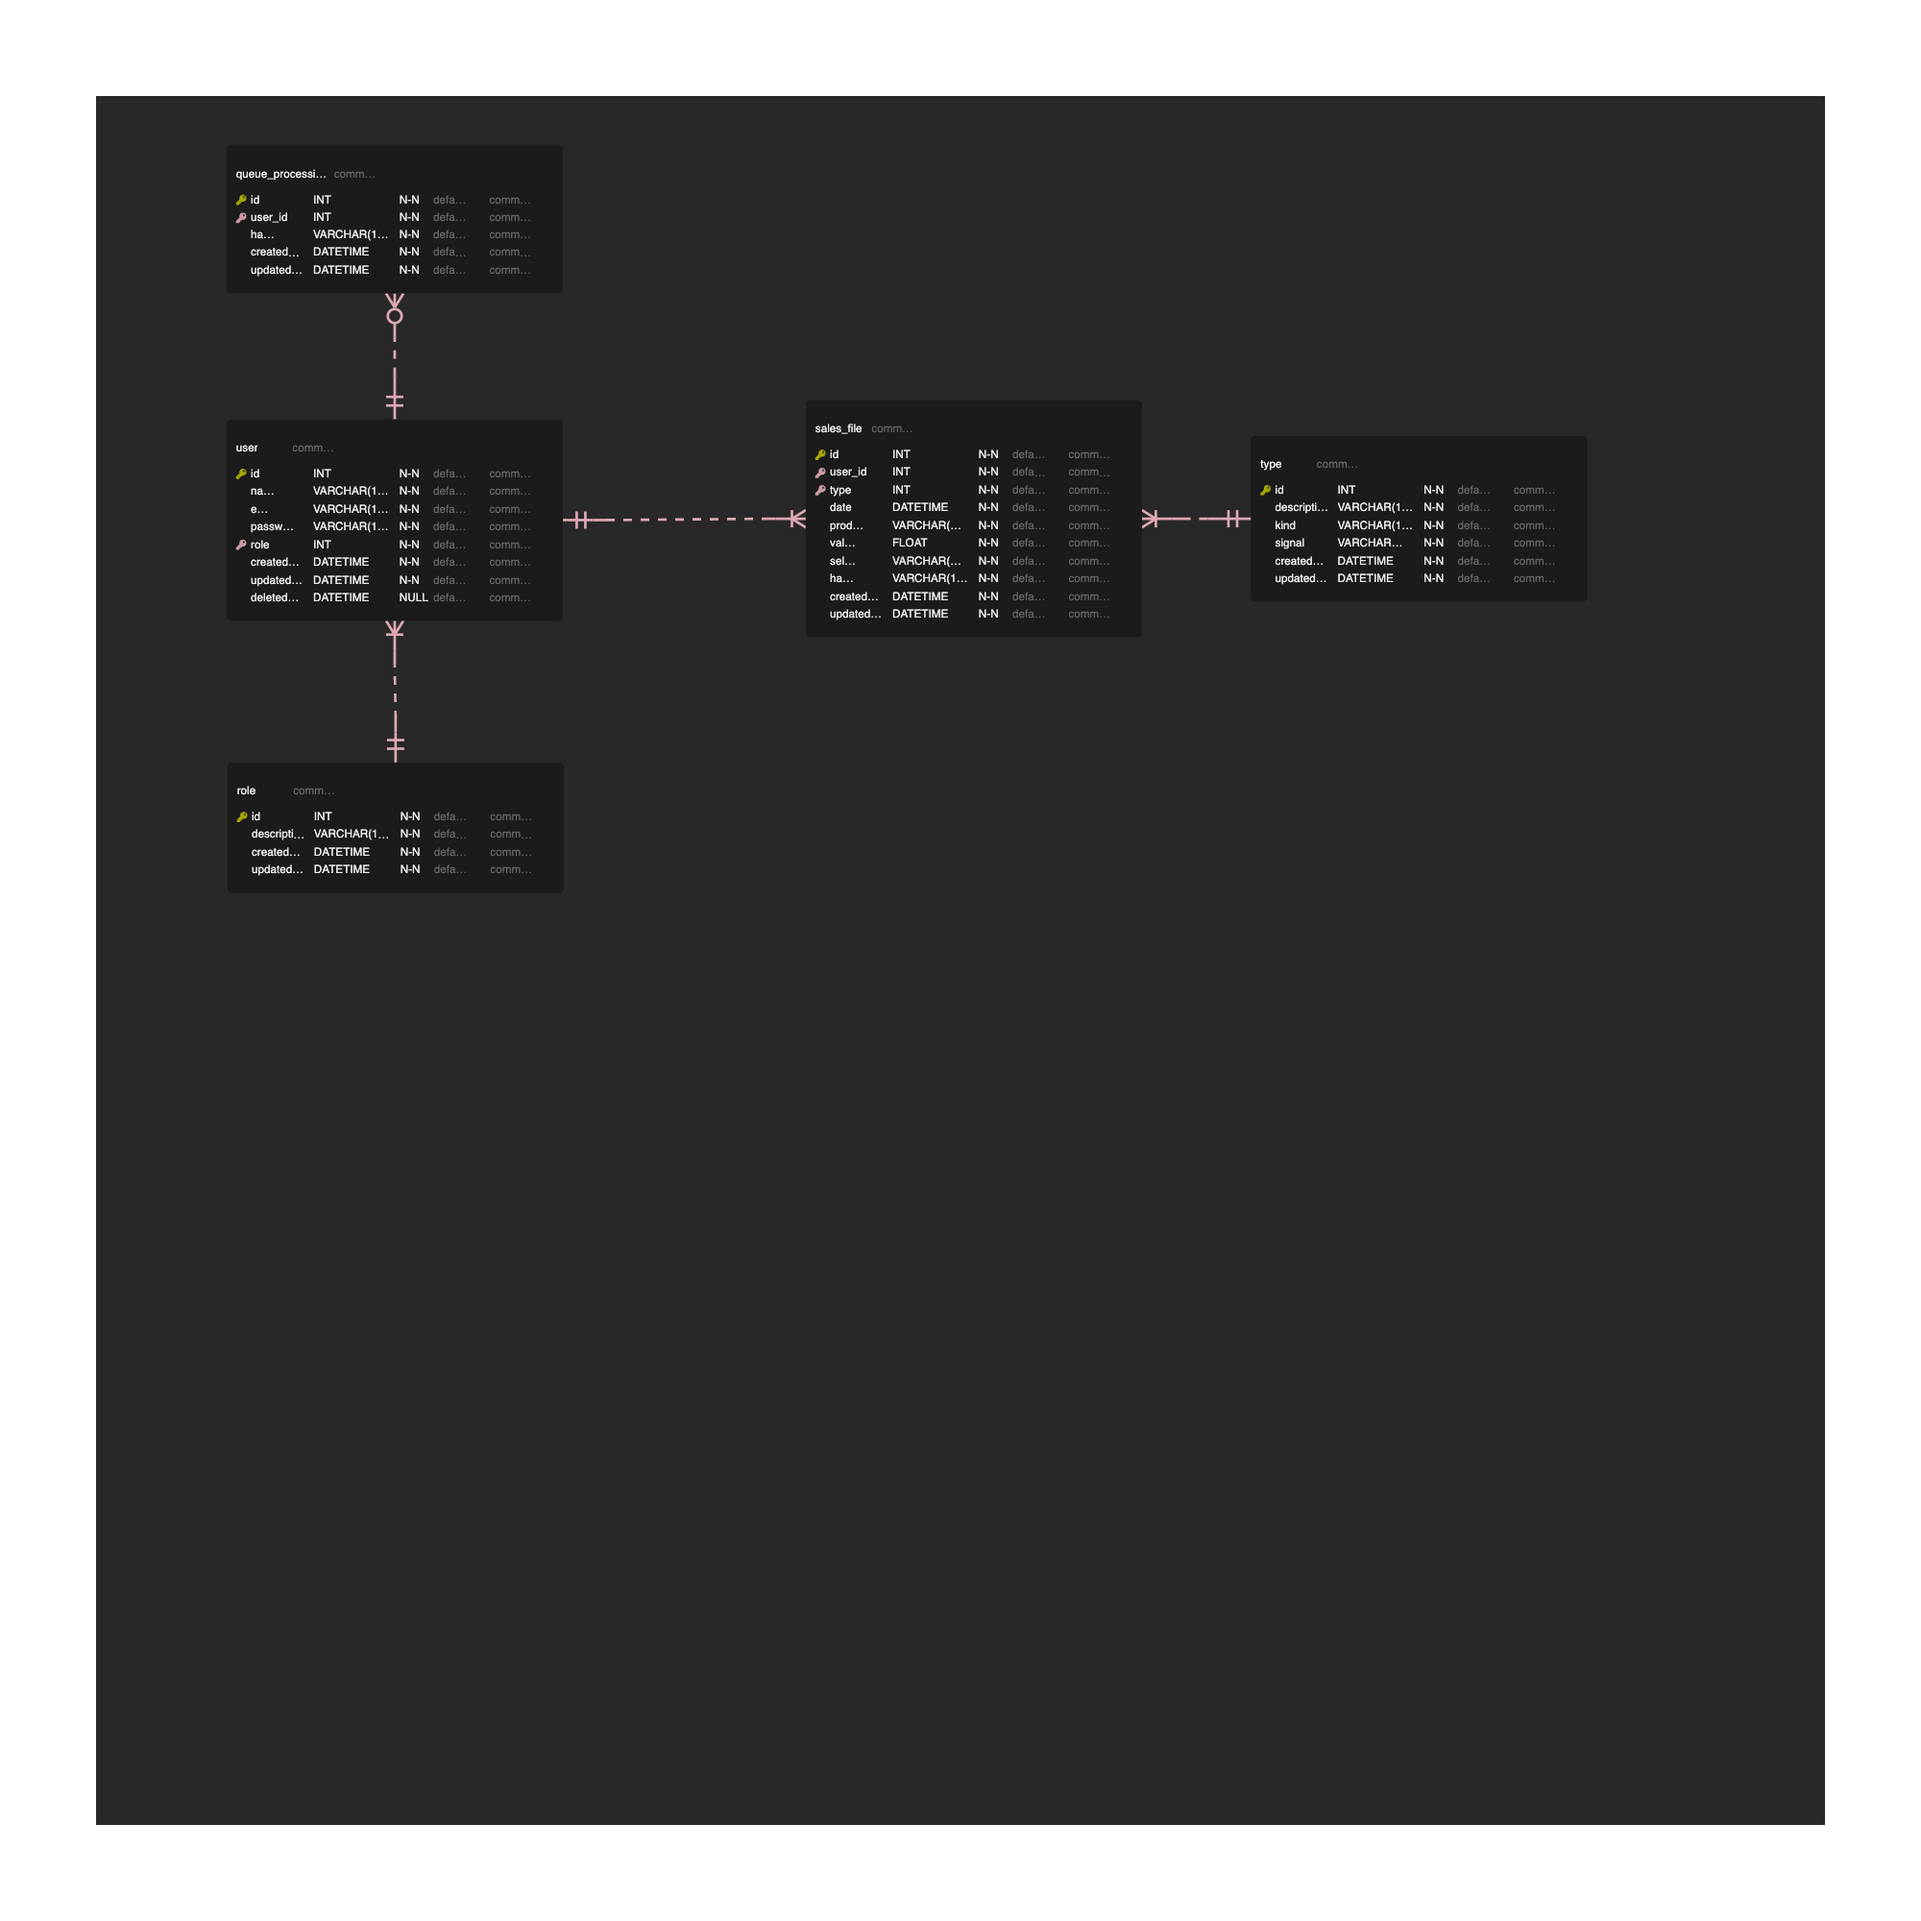
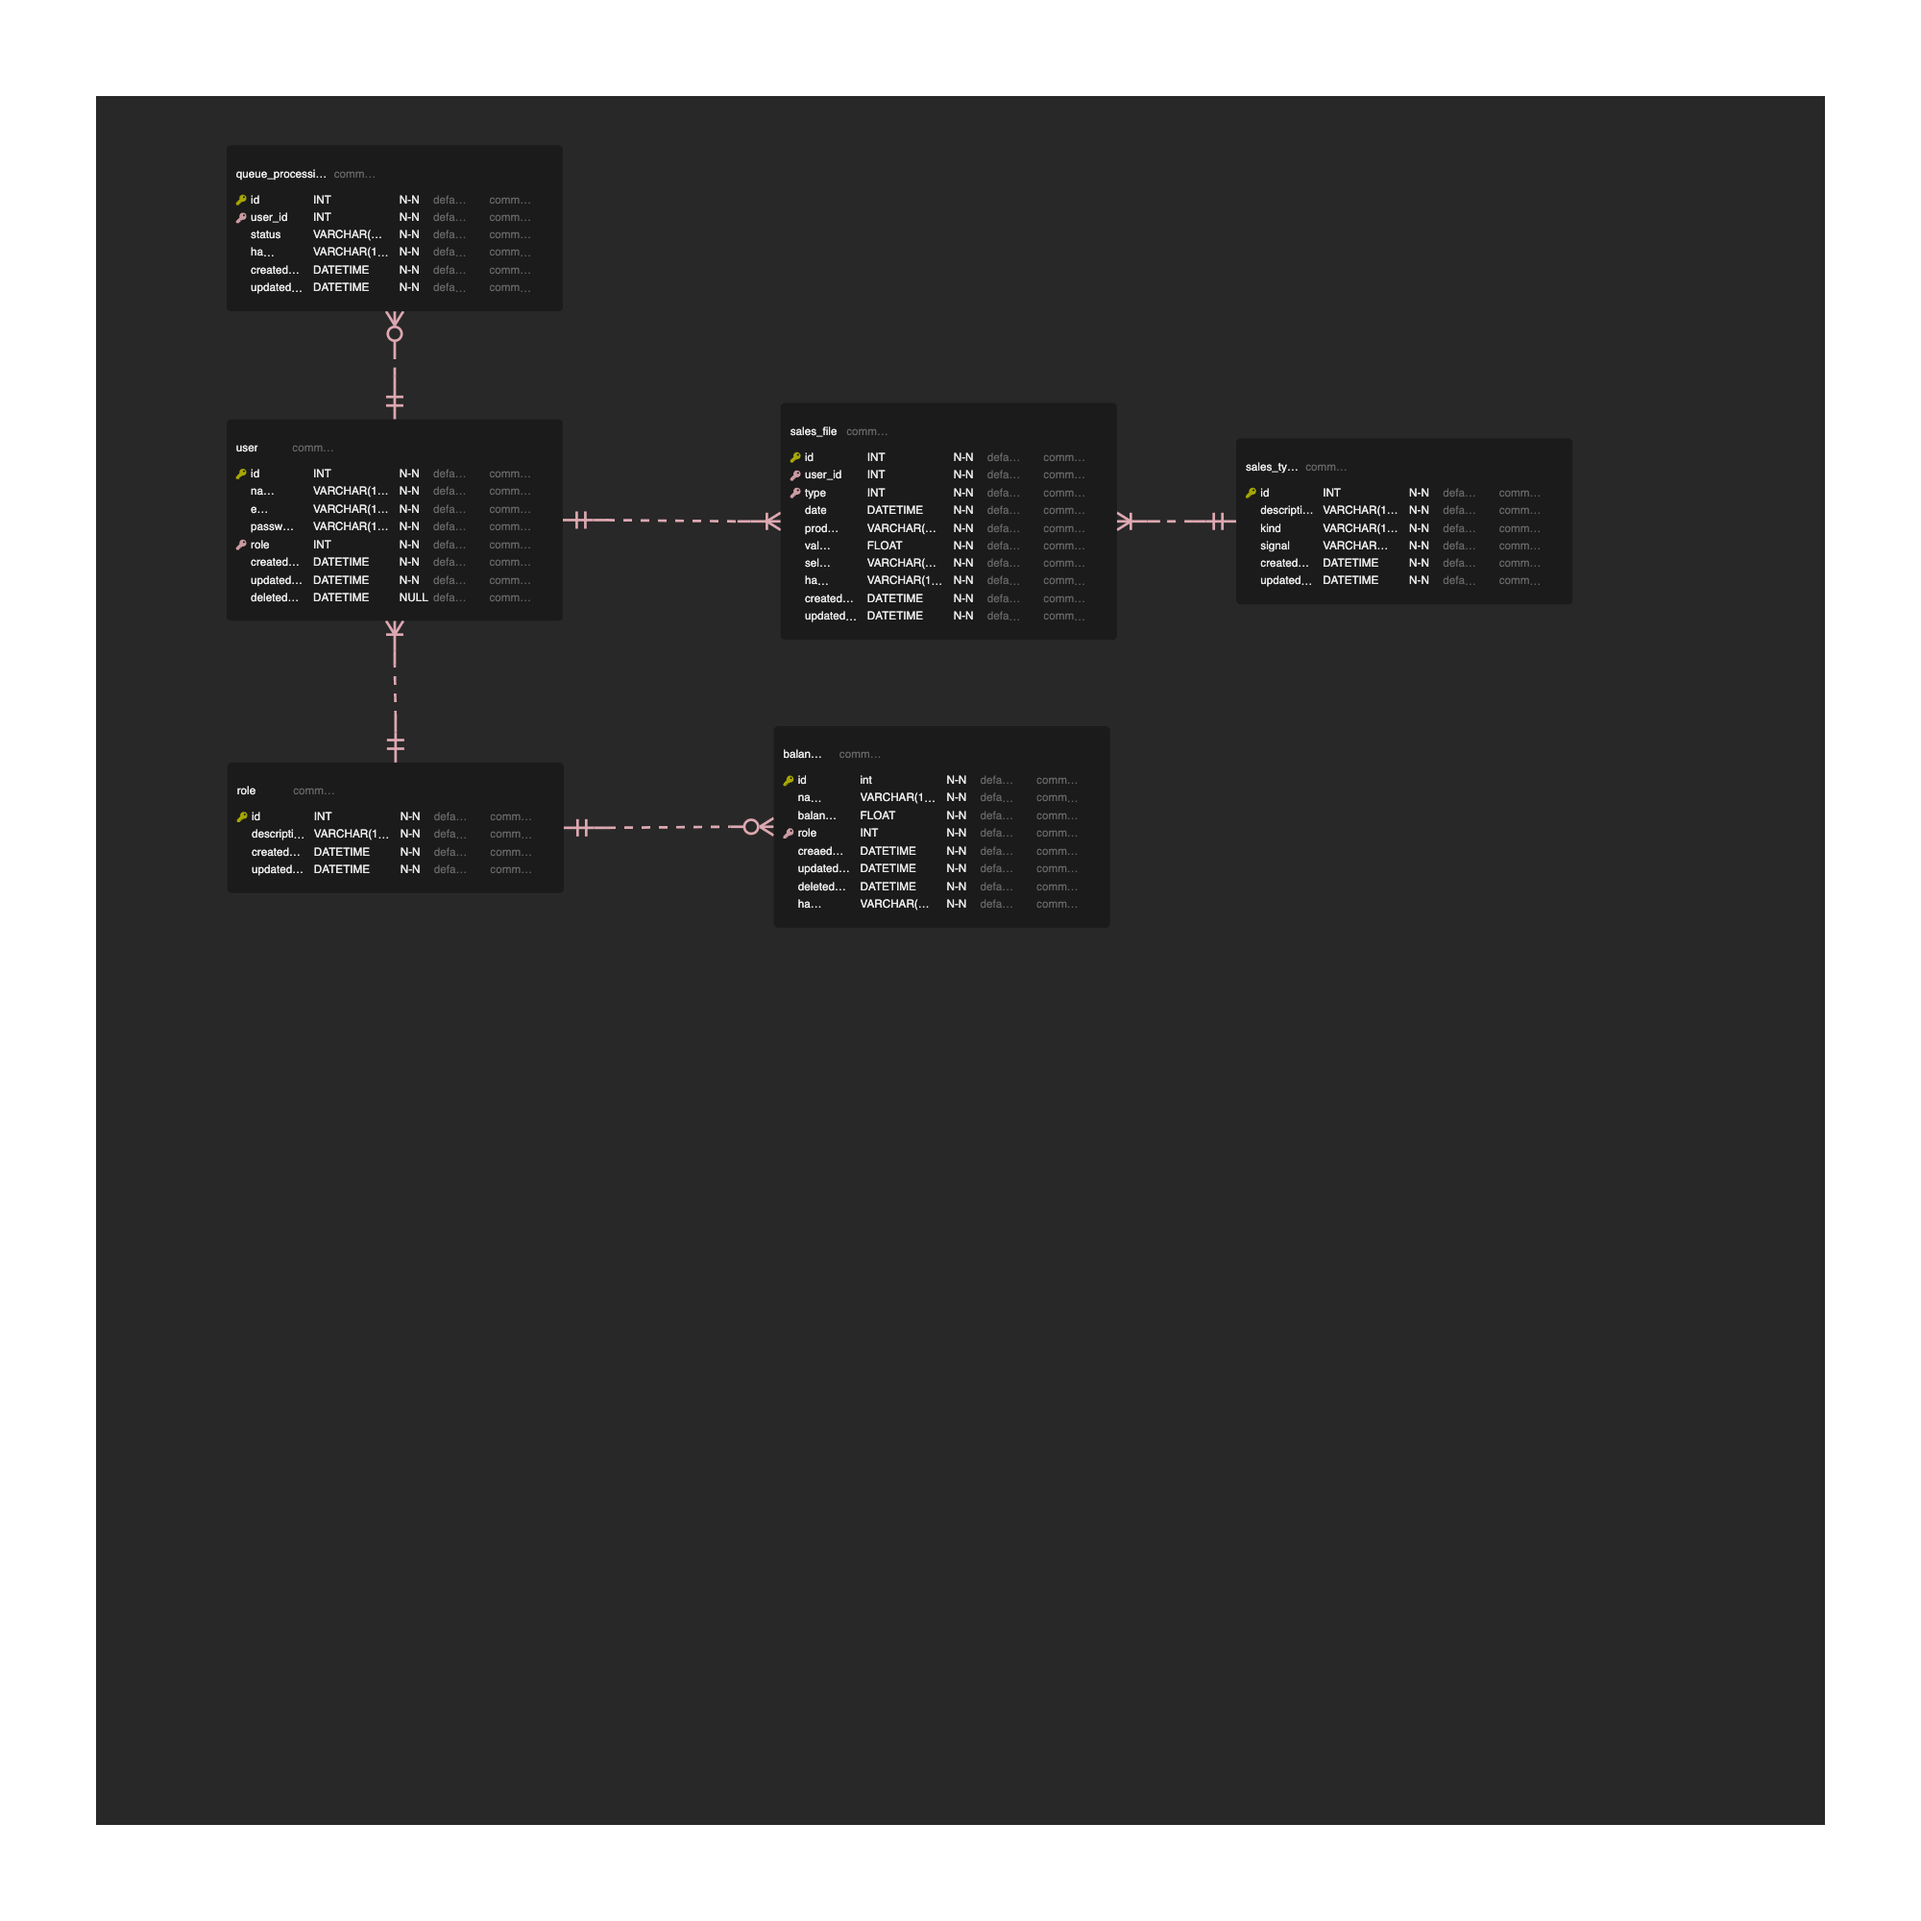
check file status processing

diff --git a/controllers/fileController.go b/controllers/fileController.go
@@ -5,10 +5,13 @@ import (
 	"fmt"
 	"io/ioutil"
 	"path/filepath"
+	"strconv"
 	"strings"
 
 	"github.com/gofiber/fiber/v2"
 	"github.com/luisaugustomelo/hubla-challenge/interfaces"
+	"github.com/luisaugustomelo/hubla-challenge/middlewares"
+	"github.com/luisaugustomelo/hubla-challenge/services"
 	"github.com/luisaugustomelo/hubla-challenge/workers"
 	"gorm.io/gorm"
 )
@@ -17,6 +20,24 @@ type FileController struct{}
 
 func fiberError(c *fiber.Ctx, status int, message string, err error) error {
 	return c.Status(status).SendString(fmt.Sprintf("%s : %s", message, err.Error()))
+}
+
+func CheckFileStatus(c *fiber.Ctx) error {
+	db := c.Locals("db").(*gorm.DB)
+	id := c.Params("id")
+
+	value, err := strconv.Atoi(id)
+
+	if err != nil {
+		return fiberError(c, fiber.StatusBadRequest, "ID error", fmt.Errorf("id doesn't exist"))
+	}
+
+	balances, err := services.CheckFileStatus(db, value)
+	if err != nil {
+		return fiberError(c, fiber.StatusBadRequest, "ID process error", fmt.Errorf("error to process request"))
+	}
+
+	return c.Status(200).JSON(balances)
 }
 
 func UploadSingleFile(c *fiber.Ctx) error {
@@ -43,17 +64,23 @@ func UploadSingleFile(c *fiber.Ctx) error {
 
 	// email will be decrypted based jwt
 	db := c.Locals("db").(*gorm.DB)
-	workers.PublishToQueue(interfaces.Message{
-		UserId: 1,
-		Email:  "luis@hubla.com",
+	user := c.Locals("user").(interfaces.Credentials)
+	mq, err := workers.PublishToQueue(interfaces.Message{
+		UserId: user.Id,
+		Email:  user.Email,
 		File:   base64.StdEncoding.EncodeToString(bytes),
 	}, db)
 
-	return c.Status(fiber.StatusOK).JSON(fiber.Map{"filepath": "/images/single/ submited as success!"})
+	if err != nil {
+		return c.Status(fiber.StatusInternalServerError).JSON(err)
+	}
+
+	return c.Status(fiber.StatusOK).JSON(mq)
 }
 
 func (*FileController) Route(app *fiber.App) {
-	app.Post("/upload", UploadSingleFile)
+	app.Post("/upload", middlewares.RenewJWT, UploadSingleFile)
+	app.Get("/checkStatus/:id", CheckFileStatus)
 }
 
 func NewFileController() interfaces.Router {

diff --git a/workers/consumer.go b/workers/consumer.go
@@ -6,6 +6,7 @@ import (
 	"fmt"
 	"log"
 	"strings"
+	"sync"
 
 	"github.com/luisaugustomelo/hubla-challenge/database/models"
 	"github.com/luisaugustomelo/hubla-challenge/interfaces"
@@ -16,21 +17,18 @@ import (
 )
 
 func ConsumerToQueue(db *gorm.DB) {
-
 	amqpHost := utils.GetEnv("AMQPHOST", "amqp://guest:guest@localhost:5672/")
 	conn, err := amqp.Dial(amqpHost)
 	if err != nil {
 		fmt.Println(err)
 		return
 	}
-	//defer conn.Close()
 
 	ch, err := conn.Channel()
 	if err != nil {
 		fmt.Println(err)
 		return
 	}
-	//defer ch.Close()
 
 	channelName := utils.GetEnv("CNAME", "hubla-sales-queue")
 	q, err := ch.QueueDeclare(
@@ -60,10 +58,20 @@ func ConsumerToQueue(db *gorm.DB) {
 		return
 	}
 
-	go func() {
+	var lock sync.Mutex
+	go func(msgs <-chan amqp.Delivery) {
 		for d := range msgs {
+			lock.Lock()
+			queue, err := ch.QueueInspect(q.Name)
+			if err != nil {
+				// handle error
+				fmt.Println(err)
+			} else {
+				fmt.Printf("Number of pending messages in the queue: %d\n", queue.Messages)
+			}
+
 			m := &interfaces.Message{}
-			err := json.Unmarshal(d.Body, m)
+			err = json.Unmarshal(d.Body, m)
 			if err != nil {
 				fmt.Printf("Error decoding JSON: %s\n", err)
 				continue
@@ -72,7 +80,7 @@ func ConsumerToQueue(db *gorm.DB) {
 			mq := models.QueueProcessing{}
 
 			// Find currently user
-			if err := db.Where("user_id = ?", m.UserId).First(&mq).Error; err != nil {
+			if err := db.Where("user_id = ? AND status = ?", m.UserId, "pending").Last(&mq).Error; err != nil {
 				continue
 			}
 
@@ -120,7 +128,7 @@ func ConsumerToQueue(db *gorm.DB) {
 				continue
 			}
 
-			mq.Status = "successs"
+			mq.Status = "success"
 			mq.Hash = filename
 			mq.Message = "done"
 
@@ -129,6 +137,7 @@ func ConsumerToQueue(db *gorm.DB) {
 			}
 
 			fmt.Printf("Received a message: %s %s %v\n", m.Email, m.File, sales)
+			lock.Unlock()
 		}
-	}()
+	}(msgs)
 }

diff --git a/services/fileService.go b/services/fileService.go
@@ -5,6 +5,8 @@ import (
 	"bytes"
 	"crypto/md5"
 	"encoding/hex"
+	"errors"
+	"fmt"
 	"io"
 	"io/ioutil"
 	"os"
@@ -12,6 +14,8 @@ import (
 	"strings"
 
 	"github.com/luisaugustomelo/hubla-challenge/database/models"
+	"github.com/luisaugustomelo/hubla-challenge/interfaces"
+	"gorm.io/gorm"
 )
 
 var productToProducer map[string]string
@@ -127,20 +131,47 @@ func ReadSales(filename string) ([]models.SalesFile, []models.Balance, error) {
 			}
 		}
 
+		userBalance := models.Balance{
+			Balance: balance,
+			Role:    1,
+			Name:    index,
+			Hash:    strings.TrimSuffix(filename, ".txt"),
+		}
+
 		if isProducer {
-			finalBalances = append(finalBalances, models.Balance{
-				Balance: balance,
-				Role:    1,
-				Name:    index,
-			})
+			finalBalances = append(finalBalances, userBalance)
 			continue
 		}
 
-		finalBalances = append(finalBalances, models.Balance{
-			Balance: balance,
-			Role:    2,
-			Name:    index,
-		})
+		userBalance.Role = 2
+		finalBalances = append(finalBalances, userBalance)
 	}
 	return sales, finalBalances, scanner.Err()
+}
+
+func CheckFileStatus(db interfaces.Datastore, id int) ([]models.Balance, error) {
+	mq := &models.QueueProcessing{}
+	if err := db.Where("id = ?", id).First(mq).Error; err != nil {
+		if errors.Is(err, gorm.ErrRecordNotFound) {
+			return nil, fmt.Errorf("process not found")
+		}
+		return nil, fmt.Errorf("failed to get process status")
+	}
+
+	if mq.Status == "success" {
+		var balances []models.Balance
+		if err := db.Where("hash = ?", strings.TrimSuffix(mq.Hash, ".txt")).Find(&balances).Error; err != nil {
+			if errors.Is(err, gorm.ErrRecordNotFound) {
+				return nil, fmt.Errorf("balances not found")
+			}
+			return nil, fmt.Errorf("failed to get balances")
+		}
+		return balances, nil
+	}
+
+	if mq.Status == "error" {
+		return nil, fmt.Errorf("error to proccess file")
+	}
+
+	return nil, nil
 }

diff --git a/workers/producer.go b/workers/producer.go
@@ -12,21 +12,21 @@ import (
 	"gorm.io/gorm"
 )
 
-func PublishToQueue(message interfaces.Message, db *gorm.DB) error {
+func PublishToQueue(message interfaces.Message, db *gorm.DB) (*models.QueueProcessing, error) {
 	amqpHost := utils.GetEnv("AMQPHOST", "amqp://guest:guest@localhost:5672/")
 	conn, err := amqp.Dial(amqpHost)
 	if err != nil {
 		fmt.Println(err)
-		return err
+		return nil, err
 	}
-	defer conn.Close()
+	//defer conn.Close()
 
 	ch, err := conn.Channel()
 	if err != nil {
 		fmt.Println(err)
-		return err
+		return nil, err
 	}
-	defer ch.Close()
+	//defer ch.Close()
 
 	channelName := utils.GetEnv("CNAME", "hubla-sales-queue")
 	q, err := ch.QueueDeclare(
@@ -39,13 +39,13 @@ func PublishToQueue(message interfaces.Message, db *gorm.DB) error {
 	)
 	if err != nil {
 		fmt.Println(err)
-		return err
+		return nil, err
 	}
 
 	body, err := json.Marshal(message)
 	if err != nil {
 		fmt.Println(err)
-		return err
+		return nil, err
 	}
 
 	err = ch.Publish(
@@ -60,7 +60,7 @@ func PublishToQueue(message interfaces.Message, db *gorm.DB) error {
 	)
 	if err != nil {
 		fmt.Println(err)
-		return err
+		return nil, err
 	}
 
 	mq := &models.QueueProcessing{}
@@ -71,8 +71,8 @@ func PublishToQueue(message interfaces.Message, db *gorm.DB) error {
 
 	if err := db.Save(&mq).Error; err != nil {
 		log.Print(err)
-		return err
+		return nil, err
 	}
 
-	return nil
+	return mq, nil
 }

diff --git a/middlewares/authMiddleware.go b/middlewares/authMiddleware.go
@@ -6,6 +6,7 @@ import (
 
 	"github.com/gofiber/fiber/v2"
 	"github.com/golang-jwt/jwt"
+	"github.com/luisaugustomelo/hubla-challenge/interfaces"
 	"github.com/luisaugustomelo/hubla-challenge/services"
 )
 
@@ -39,15 +40,19 @@ func RenewJWT(c *fiber.Ctx) error {
 	}
 
 	email := claims["sub"].(string)
-	id := claims["id"].(uint)
+	id := claims["id"].(float64)
 
-	newToken, err := services.GenerateJWT(email, id)
+	newToken, err := services.GenerateJWT(email, uint(id))
 	if err != nil {
 		return c.SendStatus(fiber.StatusInternalServerError)
 	}
 
 	// Set the new token in the response header
 	c.Set("X-New-Token", newToken)
+	c.Locals("user", interfaces.Credentials{
+		Email: email,
+		Id:    uint(id),
+	})
 
 	return c.Next()
 }

diff --git a/main.go b/main.go
@@ -2,8 +2,10 @@ package main
 
 import (
 	"os"
+	"time"
 
 	"github.com/gofiber/fiber/v2"
+	"github.com/gofiber/fiber/v2/middleware/cors"
 	_ "github.com/joho/godotenv/autoload"
 	"github.com/luisaugustomelo/hubla-challenge/controllers"
 	"github.com/luisaugustomelo/hubla-challenge/database"
@@ -12,11 +14,13 @@ import (
 
 func main() {
 	app := fiber.New()
+	app.Use(cors.New())
+
 	db, err := database.Setup(app)
 	if err != nil {
 		panic(err)
 	}
-
+	time.Sleep(500)
 	workers.ConsumerToQueue(db)
 
 	controllers.SetupRoutes(app)

diff --git a/database/models/user.go b/database/models/user.go
@@ -8,8 +8,8 @@ type User struct {
 	gorm.Model
 	Name            string
 	Email           string `gorm:"type:varchar(100);unique;not null"`
-	Password        string `json:"-"`
-	Role            uint   `gorm:"foreignKey:role"`
+	Password        string
+	Role            uint `gorm:"foreignKey:role"`
 	QueueProcessing QueueProcessing
 	SalesFile       SalesFile `gorm:"foreignKey:UserID"`
 }

diff --git a/controllers/authController.go b/controllers/authController.go
@@ -39,7 +39,10 @@ func Auth(c *fiber.Ctx) error {
 		return c.JSON(err)
 	}
 
-	return c.JSON(jwt)
+	return c.JSON(map[string]interface{}{
+		"token": jwt,
+		"user":  userExists.ID,
+	})
 }
 
 func (*AuthController) Route(app *fiber.App) {

diff --git a/interfaces/interfaces.go b/interfaces/interfaces.go
@@ -22,3 +22,8 @@ type Message struct {
 	Email  string `json:"email"`
 	File   string `json:"file"`
 }
+
+type Credentials struct {
+	Email string `json:"email"`
+	Id    uint   `json:"id"`
+}

diff --git a/database/models/balance.go b/database/models/balance.go
@@ -9,4 +9,5 @@ type Balance struct {
 	Balance float64
 	Role    uint `gorm:"foreignKey:role"`
 	Name    string
+	Hash    string
 }
